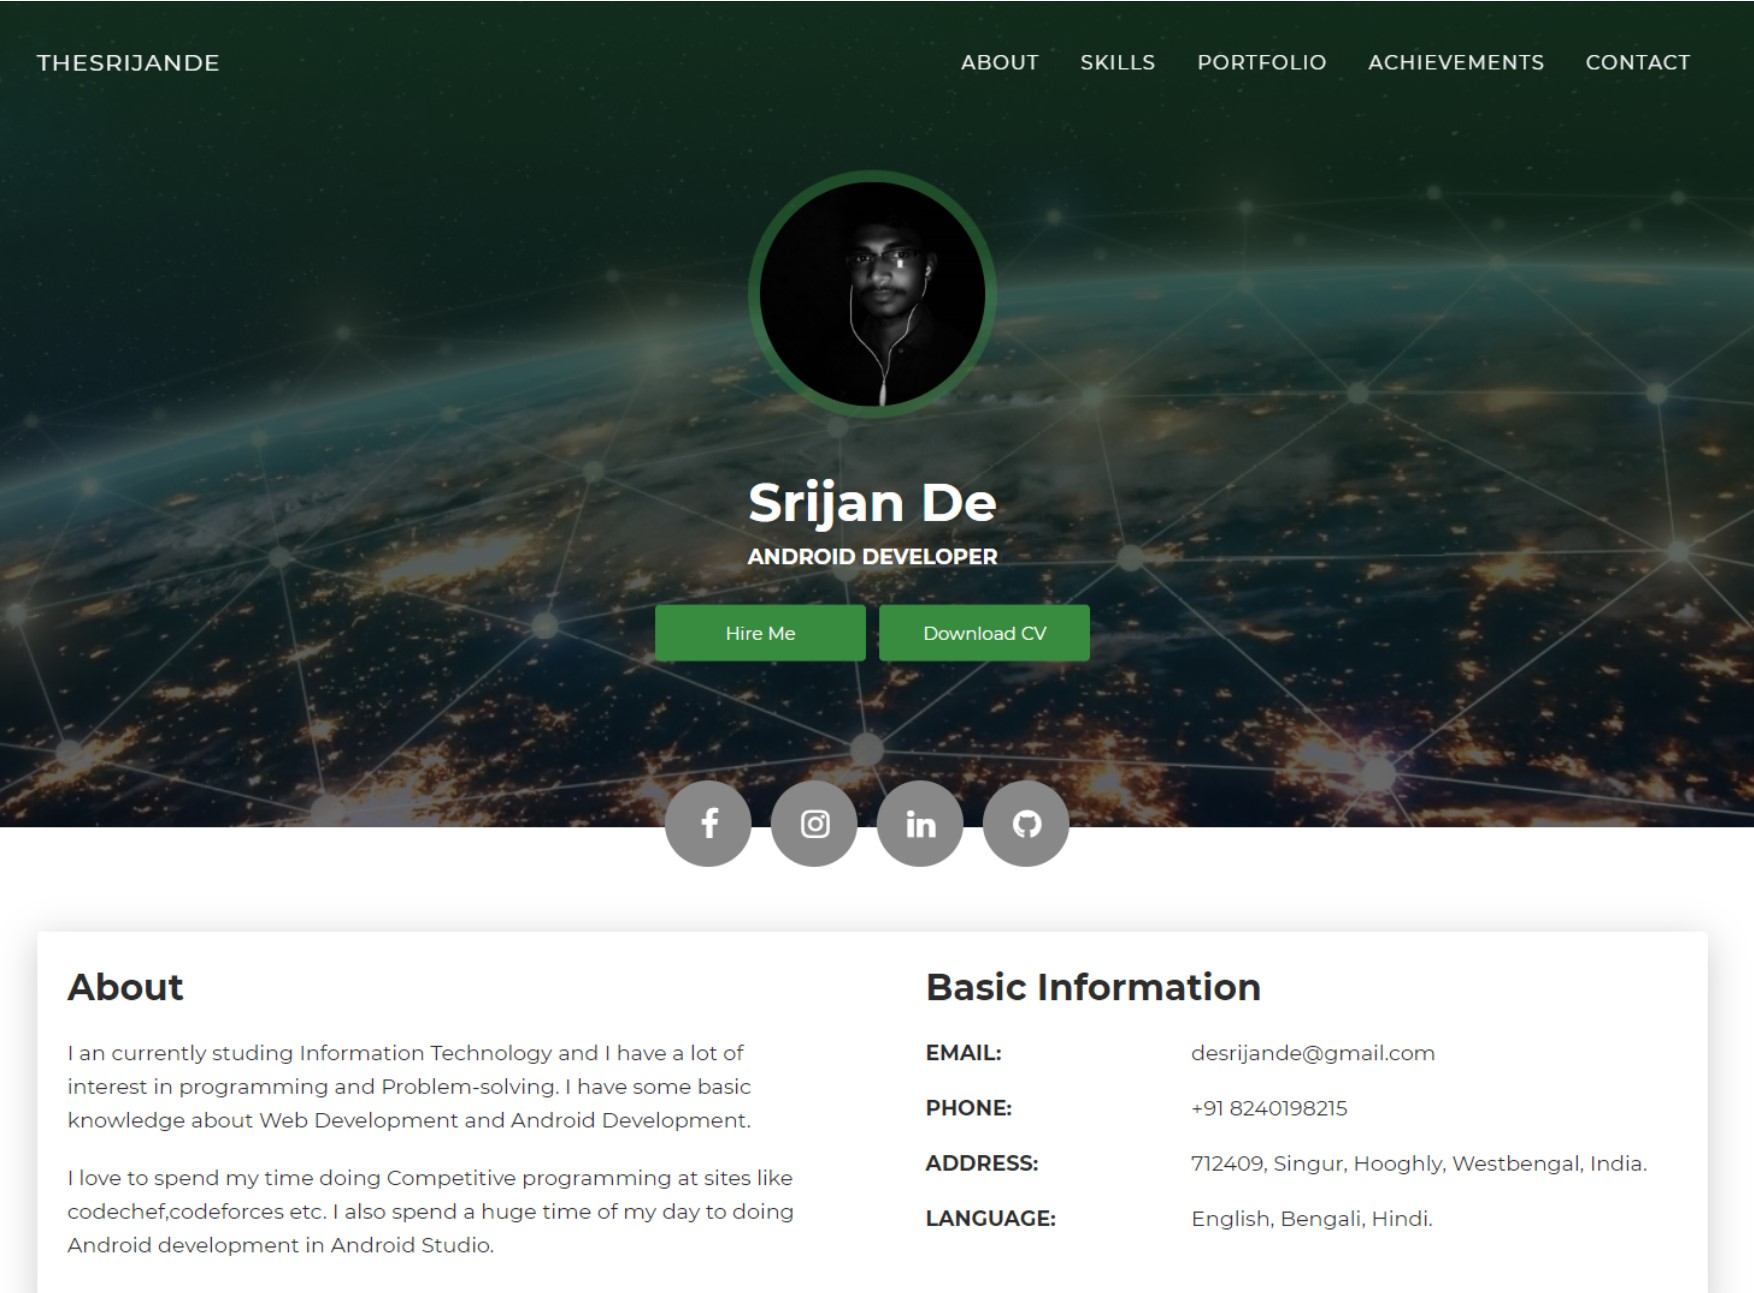
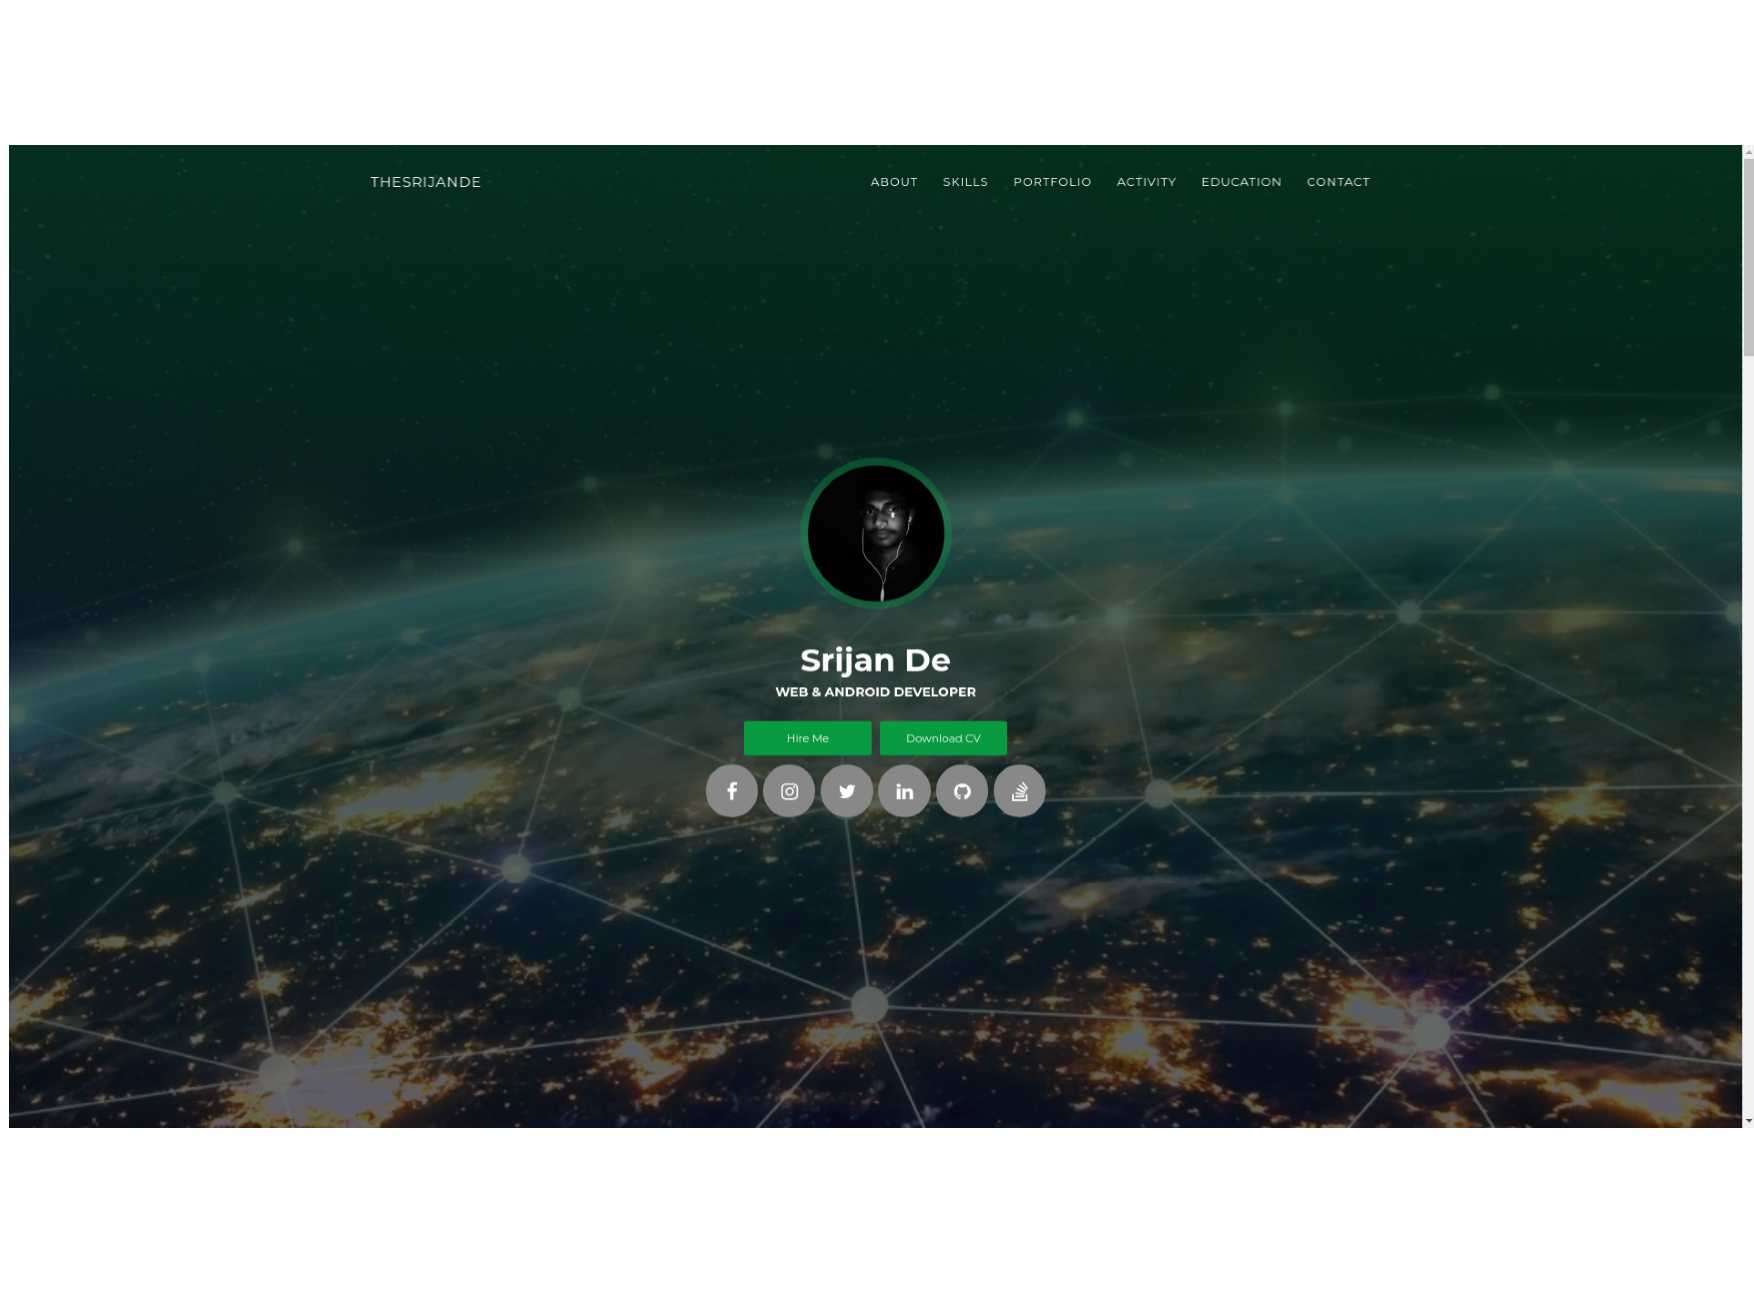
add

diff --git a/index.html b/index.html
@@ -22,13 +22,13 @@
             </div>
             <div class="collapse navbar-collapse justify-content-end" id="navigation">
               <ul class="navbar-nav">
-                <!-- <li class="nav-item"><a class="nav-link smooth-scroll" href="#">About</a></li> -->
+                <li class="nav-item"><a class="nav-link smooth-scroll" href="#">Home</a></li>
                 <li class="nav-item"><a class="nav-link smooth-scroll" href="#about">About</a></li>
                 <li class="nav-item"><a class="nav-link smooth-scroll" href="#skill">Skills</a></li>
                 <li class="nav-item"><a class="nav-link smooth-scroll" href="#portfolio">Portfolio</a></li>
                 <li class="nav-item"><a class="nav-link smooth-scroll" href="#activity">Activity</a></li>
                 <li class="nav-item"><a class="nav-link smooth-scroll" href="#education">Education</a></li>
-                <li class="nav-item"><a class="nav-link smooth-scroll" href="#contact">Contact</a></li>
+                <li class="nav-item"><a class="nav-link smooth-scroll" href="#contact">Contact/Hire</a></li>
               </ul>
             </div>
           </div>
@@ -46,18 +46,18 @@
           <div class="cc-profile-image"><a href="#"><img src="images/srijan.jpg" alt="Image"/></a></div>
           <div class="h2 title">Srijan De</div>
           <p class="category text-white">
-          Android Developer
-      </p><a class="btn btn-primary smooth-scroll mr-2" href="#contact" data-aos="zoom-in" data-aos-anchor="data-aos-anchor">Hire Me</a><a class="btn btn-primary" href="https://drive.google.com/file/d/1VGpcl2zkYDdy_hI1o2JLAPFaM-DOT5fi/view" data-aos="zoom-in" data-aos-anchor="data-aos-anchor">Download CV</a>
+          Web & Android Developer
+      </p>
+      <a class="btn btn-primary smooth-scroll mr-2" href="#contact" data-aos="zoom-in" data-aos-anchor="data-aos-anchor">Hire Me</a>
+      <a class="btn btn-primary" href="pdf/cv.pdf" data-aos="zoom-in" data-aos-anchor="data-aos-anchor">Download CV</a>
+        <div>
+          <a class="btn btn-default btn-round btn-lg btn-icon" href="https://www.facebook.com/thesrijande/" rel="tooltip" title="Follow me on Facebook" target="_blank"><i class="fa fa-facebook"></i></a>
+          <a class="btn btn-default btn-round btn-lg btn-icon" href="https://www.instagram.com/thesrijande/" rel="tooltip" title="Follow me on Instagram" target="_blank"><i class="fa fa-instagram"></i></a>
+          <a class="btn btn-default btn-round btn-lg btn-icon" href="https://twitter.com/TheSrijanDe/" rel="tooltip" title="Follow me on Twitter" target="_blank"><i class="fa fa-twitter"></i></a>
+          <a class="btn btn-default btn-round btn-lg btn-icon" href="https://www.linkedin.com/in/thesrijande/" rel="tooltip" title="Follow me on Linledin" target="_blank"><i class="fa fa-linkedin"></i></a>
+          <a class="btn btn-default btn-round btn-lg btn-icon" href="https://github.com/thesrijande/" rel="tooltip" title="Follow me on Github" target="_blank"><i class="fa fa-github"></i></a>
+          <a class="btn btn-default btn-round btn-lg btn-icon" href="https://stackoverflow.com/users/11356509/srijan-de/" rel="tooltip" title="Follow me on Stack Overflow" target="_blank"><i class="fa fa-stack-overflow"></i></a>
         </div>
-      </div>
-      <div class="section">
-        <div class="container">
-          <div class="button-container">
-          	<a class="btn btn-default btn-round btn-lg btn-icon" href="https://www.facebook.com/thesrijande/" rel="tooltip" title="Follow me on Facebook"><i class="fa fa-facebook"></i></a>
-          	<a class="btn btn-default btn-round btn-lg btn-icon" href="https://www.instagram.com/thesrijande/" rel="tooltip" title="Follow me on Instagram"><i class="fa fa-instagram"></i></a>
-          	<a class="btn btn-default btn-round btn-lg btn-icon" href="https://www.linkedin.com/in/thesrijande/" rel="tooltip" title="Follow me on Linledin"><i class="fa fa-linkedin"></i></a>
-          	<a class="btn btn-default btn-round btn-lg btn-icon" href="https://github.com/thesrijande/" rel="tooltip" title="Follow me on Github"><i class="fa fa-github"></i></a>
-          </div>
         </div>
       </div>
     </div>
@@ -79,7 +79,7 @@
         <div class="col-lg-6 col-md-12">
           <div class="card-body">
             <div class="h4 mt-0 title">Basic Information</div>
-            
+
             <div class="row mt-3">
               <div class="col-sm-4"><strong class="text-uppercase">Email:</strong></div>
               <div class="col-sm-8">desrijande@gmail.com</div>
@@ -216,47 +216,28 @@
         <div class="ml-auto mr-auto">
           <div class="row">
             <div class="col-md-6">
-              <div class="cc-porfolio-image img-raised" data-aos="fade-up" data-aos-anchor-placement="top-bottom"><!-- <a href=""> -->
+              <div class="cc-porfolio-image img-raised" data-aos="fade-up" data-aos-anchor-placement="top-bottom">
+                <a href="#">
                   <figure class="cc-effect"><img src="images/web01.jpg" alt="Image"/>
                     <figcaption>
                       <div class="h4">Personal Portfolio</div>
                       <p>Web Development</p>
                     </figcaption>
-                  </figure><!-- </a> --></div>
+                  </figure>
+                  </a>
+                </div>
             </div>
-           <!--  <div class="col-md-6">
-              <div class="cc-porfolio-image img-raised" data-aos="fade-up" data-aos-anchor-placement="top-bottom"><a href="#web-development">
-                  <figure class="cc-effect"><img src="images/project-3.jpg" alt="Image"/>
+            <div class="col-md-6">
+              <div class="cc-porfolio-image img-raised" data-aos="fade-up" data-aos-anchor-placement="top-bottom">
+                <a href="https://thesrijande.github.io/countdown/">
+                  <figure class="cc-effect"><img src="images/web02.jpg" alt="Image"/>
                     <figcaption>
-                      <div class="h4">Food Order Project</div>
+                      <div class="h4">Countdown</div>
                       <p>Web Development</p>
                     </figcaption>
-                  </figure></a></div>
-            </div> -->
-          </div>
-        </div>
-      </div>
-	<!------------ android development portfolio start----------->
-      <div class="tab-pane" id="android-development" role="tabpanel">
-        <div class="ml-auto mr-auto">
-          <div class="row">
-            <div class="col-md-6">
-              <div class="cc-porfolio-image img-raised" data-aos="fade-up" data-aos-anchor-placement="top-bottom"><a href="#android-development">
-                  <figure class="cc-effect"><img src="images/cert01.jpg" alt="Image"/>
-                    <figcaption>
-                      <div class="h4">Abstract Umbrella</div>
-                      <p>Graphic Design</p>
-                    </figcaption>
-                  </figure></a></div>
-            </div>
-            <div class="col-md-6">
-              <div class="cc-porfolio-image img-raised" data-aos="fade-up" data-aos-anchor-placement="top-bottom"><a href="#android-development">
-                  <figure class="cc-effect"><img src="images/cert01.jpg" alt="Image"/>
-                    <figcaption>
-                      <div class="h4">Abstract Line</div>
-                      <p>Graphic Design</p>
-                    </figcaption>
-                  </figure></a></div>
+                  </figure>
+                </a>
+              </div>
             </div>
           </div>
         </div>
@@ -306,10 +287,10 @@
           <div class="card-body">
             <div class="h5">Codechef</div>
             <p>Achieved 3 star. Rating 1749.
-            <br><a href="https://www.codechef.com/users/srijan_de">https://www.codechef.com/users/srijan_de</a></p>
+            <br><a href="https://www.codechef.com/users/srijan_de" target="_blank">https://www.codechef.com/users/srijan_de</a></p>
             <div class="h5">Codeforces</div>
             <p>Pupil. Rating 1330.
-            <br><a href="https://codeforces.com/profile/srijan_de">https://codeforces.com/profile/srijan_de</a></p>
+            <br><a href="https://codeforces.com/profile/srijan_de" target="_blank">https://codeforces.com/profile/srijan_de</a></p>
           </div>
         </div>
       </div>
@@ -329,7 +310,7 @@
             <p>Participating in Online 1B Round
             of Global Programming Competition,
         SnackDown 2019.
-        <br><a href="https://www.codechef.com/certificates/public/299545d">https://www.codechef.com/certificates/public/299545d</a></p><!-- <img src="images/cert01.jpg" alt="Image"/> -->
+        <br><a href="https://www.codechef.com/certificates/public/299545d" target="_blank">https://www.codechef.com/certificates/public/299545d</a></p><!-- <img src="images/cert01.jpg" alt="Image"/> -->
           </div>
         </div>
       </div>
@@ -369,7 +350,7 @@
             <p class="category">JALPAIGURI GOVERNMENT ENGINEERING COLLEGE</p> Bachelor Of Technology<br>
              Department Of Information Technology
             <p>
-            	
+
             </p>
           </div>
         </div>
@@ -385,7 +366,7 @@
           <div class="card-body">
             <p class="category">Singur Mahamaya High School</p> Higher Secondary<br> 81.5%
             <p>
-            	
+
             </p>
           </div>
         </div>
@@ -403,7 +384,7 @@
             <p class="category">Singur Mahamaya High School</p> Secondary
             <br> 87.5%
             <p>
-            	
+
             </p>
           </div>
         </div>
@@ -419,12 +400,12 @@
         <div class="row">
           <div class="col-md-9">
             <div class="card mb-0" data-aos="zoom-in">
-              <div class="h4 text-center title">Contact Me</div>
+              <div class="h4 text-center title">Hire Me</div>
               <div class="row">
                 <div class="col-md-6">
                   <div class="card-body">
                     <form action="https://formspree.io/xqkkowyr" method="POST">
-                      <div class="p pb-3"><strong>Feel free to contact me </strong></div>
+                      <div class="p pb-3"><strong>Hire as freelancer</strong></div>
                       <div class="row mb-3">
                         <div class="col">
                           <div class="input-group"><span class="input-group-addon"><i class="fa fa-user-circle"></i></span>
@@ -468,7 +449,7 @@
                     <p class="mb-0"><strong>Phone</strong></p>
                     <p class="pb-2">+91 8240198215</p>
                     <p class="mb-0"><strong>Email</strong></p>
-                    <p>desrijande@gmail.com</p>
+                    <p>sd2220@it.jgec.ac.in</p>
                   </div>
                 </div>
               </div>
@@ -482,18 +463,15 @@
     </div>
     <footer class="footer">
       <div class="container text-center">
-      	<a class="cc-facebook btn btn-link" href="https://www.facebook.com/thesrijande/"><i class="fa fa-facebook fa-2x " aria-hidden="true"></i>
-      	</a>
-      	<a class="cc-instagram btn btn-link" href="https://www.instagram.com/thesrijande/"><i class="fa fa-instagram fa-2x " aria-hidden="true"></i>
-      	</a>
-      	<a class="cc-linkedin btn btn-link " href="https://www.linkedin.com/in/thesrijande/"><i class="fa fa-linkedin fa-2x " aria-hidden="true"></i>
-      	</a>
-      	<a class="cc-google-plus btn btn-link" href="https://github.com/thesrijande/"><i class="fa fa-github fa-2x" aria-hidden="true"></i>
-      	</a>
+      	<a class="cc-facebook btn btn-link" href="https://www.facebook.com/thesrijande/" target="_blank"><i class="fa fa-facebook fa-2x " aria-hidden="true"></i></a>
+      	<a class="cc-instagram btn btn-link" href="https://www.instagram.com/thesrijande/" target="_blank"><i class="fa fa-instagram fa-2x " aria-hidden="true"></i></a>
+      	<a class="cc-linkedin btn btn-link " href="https://twitter.com/TheSrijanDe/" target="_blank"><i class="fa fa-twitter fa-2x " aria-hidden="true"></i></a>
+      	<a class="cc-github btn btn-link" href="https://github.com/thesrijande/" target="_blank"><i class="fa fa-github fa-2x" aria-hidden="true"></i></a>
+      	<a class="cc-linkedin btn btn-link " href="https://www.linkedin.com/in/thesrijande/" target="_blank"><i class="fa fa-linkedin fa-2x " aria-hidden="true"></i></a>
+      	<a class="cc-stack-overflow btn btn-link" href="https://stackoverflow.com/users/11356509/srijan-de/" target="_blank"><i class="fa fa-stack-overflow fa-2x" aria-hidden="true"></i></a>
       </div>
-      <!-- <div class="h4 title text-center">Srijan De</div> -->
       <div class="text-center text-muted">
-      	<div align=center><a href='https://www.counter12.com'>Page Visited: <img src='https://www.counter12.com/img-3dWdAZZa346y2x1a-3.gif' border='0' alt='free counter'></a><script type='text/javascript' src='https://www.counter12.com/ad.js?id=3dWdAZZa346y2x1a'></script></div>
+      	<div align=center><a href='>Page Visited: <img src='https://www.counter12.com/img-3dWdAZZa346y2x1a-3.gif' border='0' alt='free counter'></a><script type='text/javascript' src='https://www.counter12.com/ad.js?id=3dWdAZZa346y2x1a'></script></div>
         <br>
         <p>&copy; TheSrijanDe.
         </p>

diff --git a/styles/main.css b/styles/main.css
@@ -4844,7 +4844,7 @@ Created using IcoMoon - icomoon.io
 }
 
 .profile-page .page-header {
-  min-height: 550px;
+  min-height: 100vh;
 }
 
 .profile-page .profile-container {
@@ -4921,7 +4921,6 @@ Created using IcoMoon - icomoon.io
   left: 0;
   z-index: 2;
 }
-
 .section-full-page:before {
   background-color: rgba(0, 0, 0, 0.5);
 }
@@ -7248,19 +7247,21 @@ Created using IcoMoon - icomoon.io
 .cc-facebook:hover i {
   color: #3b5998;
 }
-
+.cc-instagram:hover i {
+  color: #ed00ff;
+}
+.cc-twitter:hover i {
+  color: #3b5998;
+}
 .cc-linkedin:hover i {
   color: #1da1f2;
 }
-
-.cc-google-plus:hover i {
-  color: #dd4b39;
+.cc-github:hover i {
+  color: #9100ff;
 }
-
-.cc-instagram:hover i {
-  color: #405de6;
+.cc-stack-overflow:hover i {
+  color: #ff3100;
 }
-
 /* Credit Style */
 a.credit {
   color: inherit;
